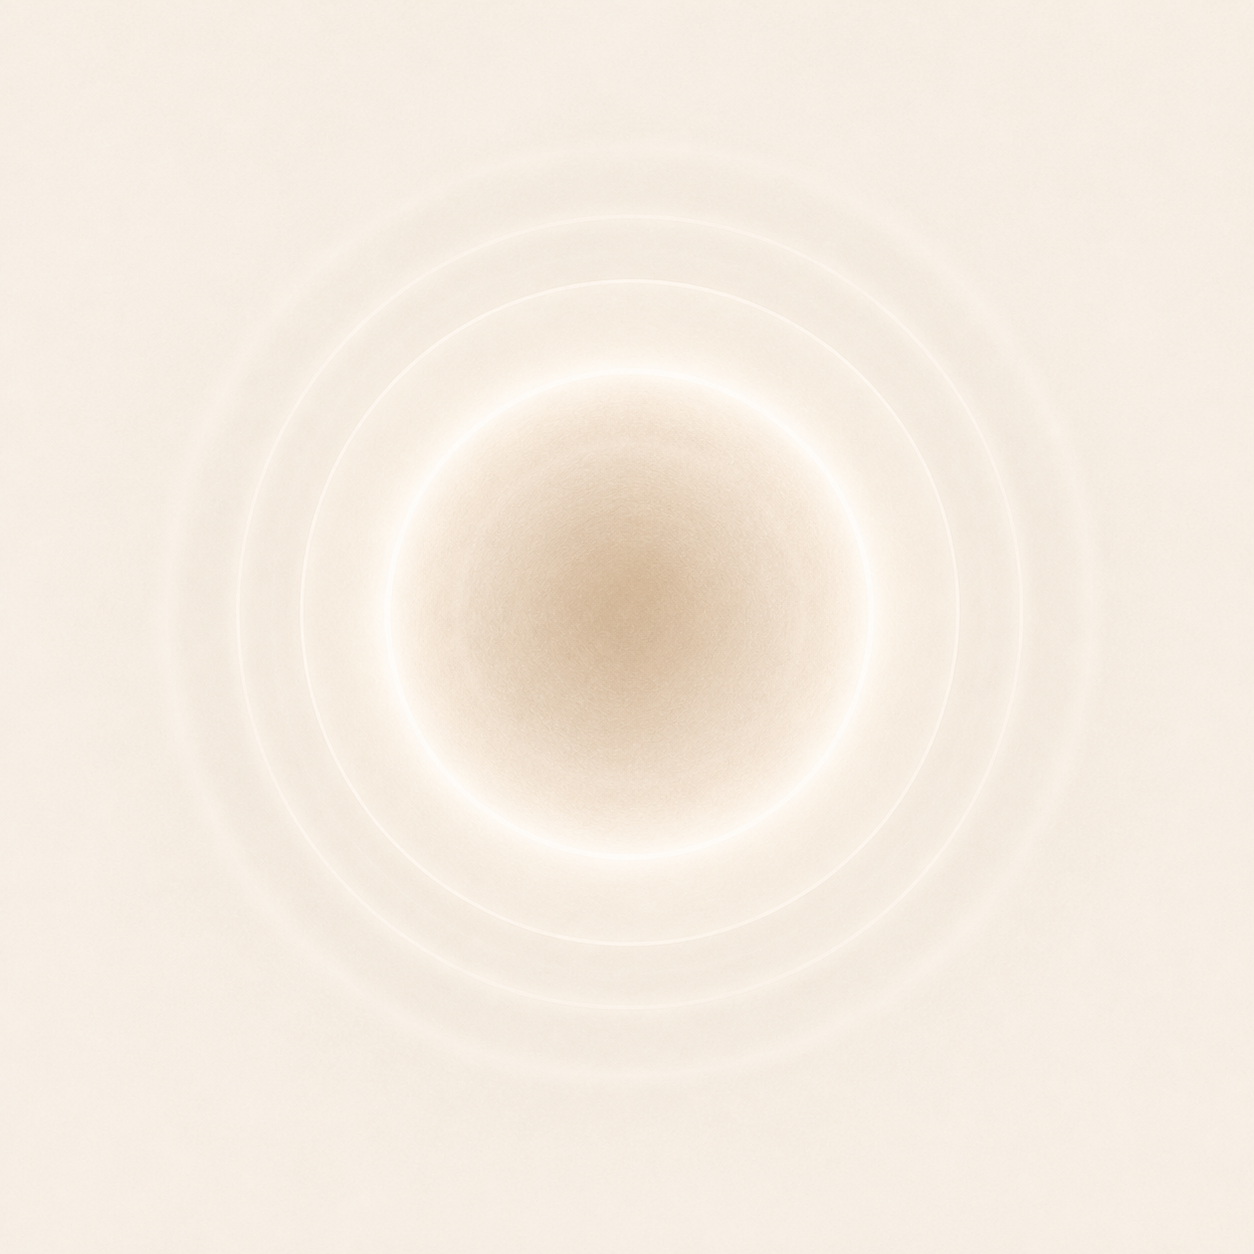
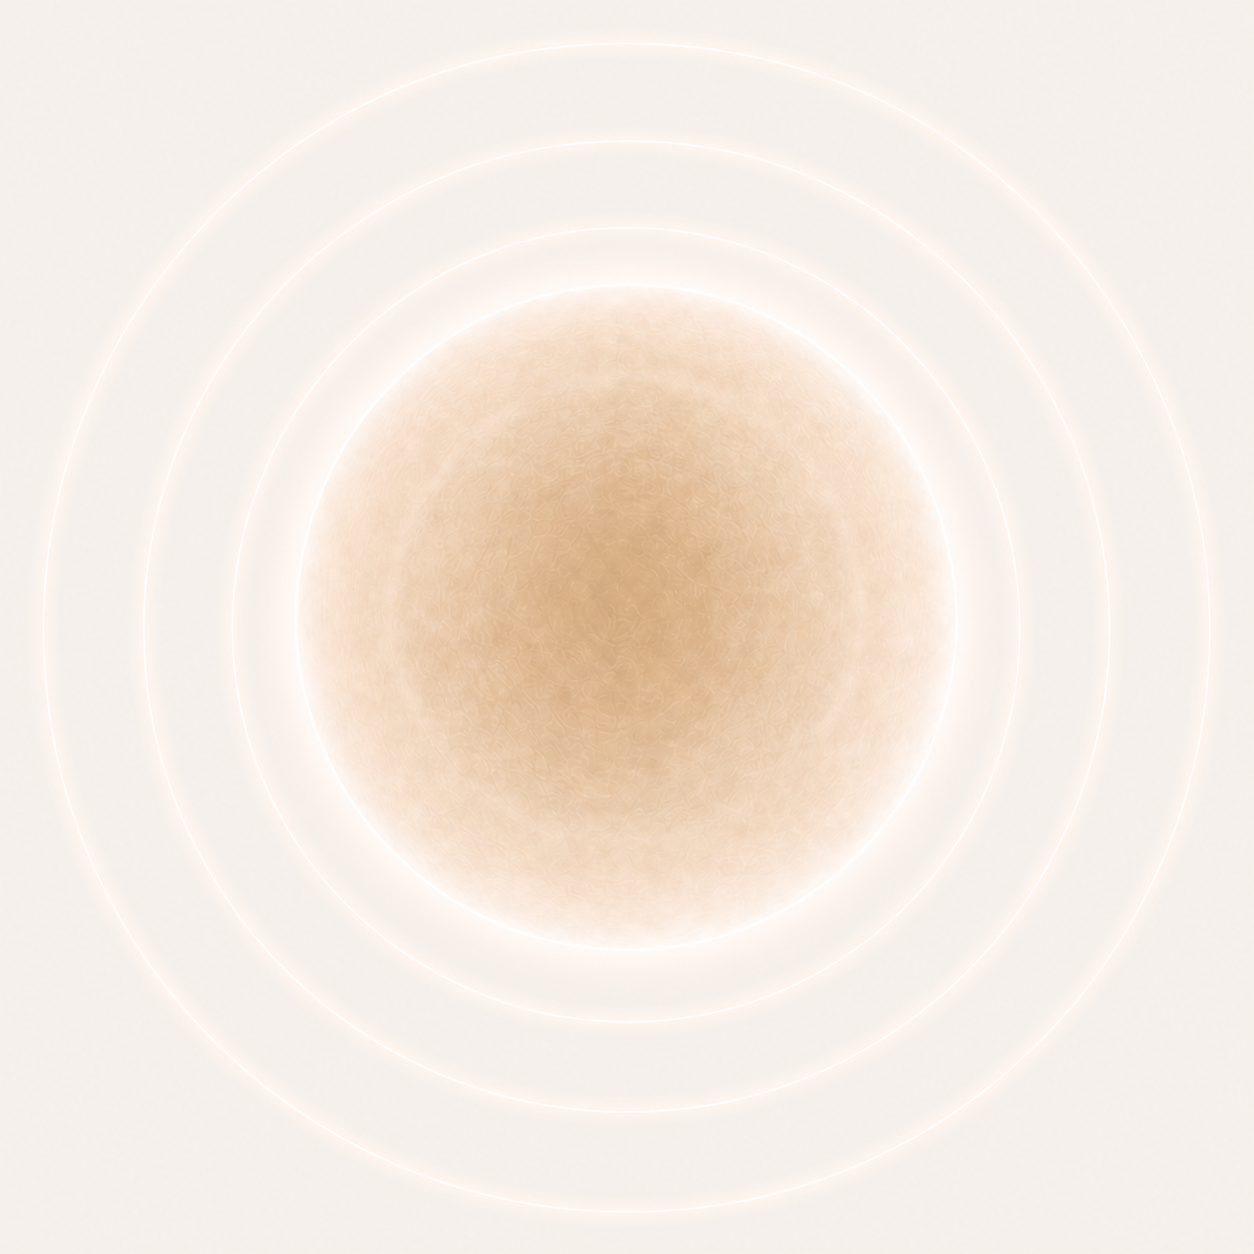
fix(mobile): match product design system

Changed region(s): [[0.2799, 0.2488, 0.7153, 0.7153]]

diff --git a/apps/mobile/src/components/ui/zen/list-row.tsx b/apps/mobile/src/components/ui/zen/list-row.tsx
@@ -14,38 +14,51 @@ import { ZenIcon, type ZenIconName } from "./zen-icon";
 type ZenListRowProps = {
   icon: ZenIconName;
   label: string;
+  detail?: string;
   value?: string;
   onPress?: () => void;
   trailing?: React.ReactNode;
   showChevron?: boolean;
   accessibilityHint?: string;
+  className?: string;
+  iconClassName?: string;
+  iconSize?: number;
 };
 
 export function ZenListRow({
   icon,
   label,
+  detail,
   value,
   onPress,
   trailing,
   showChevron = Boolean(onPress),
   accessibilityHint,
+  className,
+  iconClassName,
+  iconSize = 22,
 }: ZenListRowProps) {
   const colors = useThemeColors();
 
   return (
     <Pressable
       accessibilityRole={onPress ? "button" : undefined}
-      accessibilityLabel={value ? `${label}, ${value}` : label}
+      accessibilityLabel={[label, detail, value].filter(Boolean).join(", ")}
       accessibilityHint={accessibilityHint}
-      className="min-h-16 flex-row items-center gap-4 px-4 py-3"
+      className={`min-h-16 flex-row items-center gap-4 px-4 py-3 ${className ?? ""}`}
       disabled={!onPress}
       onPress={onPress}
     >
-      <View className="size-10 items-center justify-center rounded-full bg-surface-secondary">
-        <ZenIcon name={icon} size={22} tintColor={colors.muted} />
+      <View className={`size-10 items-center justify-center rounded-full bg-surface-secondary ${iconClassName ?? ""}`}>
+        <ZenIcon name={icon} size={iconSize} tintColor={colors.muted} />
       </View>
       <View className="flex-1 gap-0.5">
         <Typography variant="body">{label}</Typography>
+        {detail ? (
+          <Typography variant="small" tone="muted" tabularNums>
+            {detail}
+          </Typography>
+        ) : null}
         {value ? (
           <Typography variant="small" tone="muted" tabularNums>
             {value}
@@ -63,20 +76,28 @@ export function PracticeTimeRow({
   onPress,
   trailing,
   value = formatPracticeTime(time),
+  detail,
+  prominent = false,
 }: {
   time: PracticeTime;
   onPress?: () => void;
   trailing?: React.ReactNode;
   value?: string;
+  detail?: string;
+  prominent?: boolean;
 }) {
   return (
     <ZenListRow
       icon={time.hour < 12 ? "sun" : "moon"}
       label={time.label}
+      detail={detail}
       value={value}
       onPress={onPress}
       trailing={trailing}
       showChevron={Boolean(onPress) && !trailing}
+      className={prominent ? "min-h-32 px-5 py-4" : undefined}
+      iconClassName={prominent ? "size-16" : undefined}
+      iconSize={prominent ? 30 : undefined}
     />
   );
 }

diff --git a/apps/mobile/src/global.css b/apps/mobile/src/global.css
@@ -33,13 +33,13 @@
     --opacity-disabled: 0.48;
 
     /* Zen typography: Geist for interface text, Newsreader for reflective moments. */
-    --font-sans: Geist_400Regular, ui-sans-serif, system-ui, sans-serif;
-    --font-sans-medium: Geist_500Medium, ui-sans-serif, system-ui, sans-serif;
-    --font-sans-semibold: Geist_600SemiBold, ui-sans-serif, system-ui, sans-serif;
-    --font-display: Newsreader_400Regular, ui-serif, Georgia, serif;
-    --font-serif: Newsreader_400Regular, ui-serif, Georgia, serif;
-    --font-serif-medium: Newsreader_500Medium, ui-serif, Georgia, serif;
-    --font-mono: ui-monospace, SFMono-Regular, Menlo, Monaco, Consolas, "Liberation Mono", monospace;
+    --font-sans: Geist_400Regular;
+    --font-sans-medium: Geist_500Medium;
+    --font-sans-semibold: Geist_600SemiBold;
+    --font-display: Newsreader_400Regular;
+    --font-serif: Newsreader_400Regular;
+    --font-serif-medium: Newsreader_500Medium;
+    --font-mono: Menlo;
 }
 
 @layer theme {

diff --git a/apps/mobile/src/components/screens/meditation/breathing-field.tsx b/apps/mobile/src/components/screens/meditation/breathing-field.tsx
@@ -49,7 +49,11 @@ export function BreathingField({ reducedMotion, ending }: BreathingFieldProps) {
   }));
 
   return (
-    <Animated.View style={animatedStyle} accessibilityElementsHidden>
+    <Animated.View
+      className="size-[330px] items-center justify-center overflow-hidden"
+      style={animatedStyle}
+      accessibilityElementsHidden
+    >
       <Image
         source={
           theme === "dark"
@@ -57,7 +61,7 @@ export function BreathingField({ reducedMotion, ending }: BreathingFieldProps) {
             : require("../../../../assets/images/zen-breathing-field.png")
         }
         contentFit="contain"
-        style={{ height: 330, width: 330 }}
+        style={{ height: 350, width: 350 }}
       />
     </Animated.View>
   );

diff --git a/apps/mobile/src/screens/onboarding/welcome-screen.tsx b/apps/mobile/src/screens/onboarding/welcome-screen.tsx
@@ -23,7 +23,7 @@ export function WelcomeScreen() {
 
   return (
     <StandardScrollView contentContainerClassName="min-h-full justify-between gap-8 pb-6 pt-10">
-      <Animated.View entering={reducedMotion ? undefined : FadeIn.duration(450)} className="gap-3 pt-8">
+      <Animated.View entering={reducedMotion ? undefined : FadeIn.duration(450)} className="gap-3 pt-24">
         <Typography accessibilityRole="header" variant="h1">
           Welcome.
         </Typography>
@@ -32,9 +32,9 @@ export function WelcomeScreen() {
         </Typography>
       </Animated.View>
 
-      <LandscapeArtwork height={360} className="-mx-6" />
+      <LandscapeArtwork height={384} className="-mx-6" />
 
-      <View className="gap-7">
+      <View className="-mt-12 -translate-y-8 gap-12">
         <View className="flex-row justify-center gap-2" accessibilityLabel="Onboarding step 1 of 4">
           <View className="size-2 rounded-full bg-accent" />
           <View className="size-2 rounded-full bg-stone" />

diff --git a/apps/mobile/src/screens/today-screen.tsx b/apps/mobile/src/screens/today-screen.tsx
@@ -59,13 +59,15 @@ export function TodayScreen() {
         Today
       </Typography>
       <Typography variant="h1">A quiet rhythm{"\n"}carries you home.</Typography>
-      <LandscapeArtwork height={235} className="-mx-6" />
+      <LandscapeArtwork height={180} className="-mx-6" />
 
       {nextPractice ? (
         <GroupedList>
           <PracticeTimeRow
             time={nextPractice.practiceTime}
+            detail={`${preferences.lastDurationMinutes} min`}
             value={formatScheduledPractice(nextPractice.scheduledAtMs, nowMs)}
+            prominent
             onPress={() => router.push("/session-setup")}
           />
         </GroupedList>
@@ -80,7 +82,7 @@ export function TodayScreen() {
           <Typography variant="small" tone="muted" tabularNums>
             {todaySessions.length === 0
               ? "No sessions yet today"
-              : preferences.sessionsPerDay > 1
+              : preferences.sessionsPerDay > 1 && todaySessions.length <= preferences.sessionsPerDay
                 ? `${todaySessions.length} of ${preferences.sessionsPerDay} sessions today`
                 : `${todaySessions.length} ${todaySessions.length === 1 ? "session" : "sessions"} today`}
           </Typography>

diff --git a/apps/mobile/src/components/ui/zen/zen-button.tsx b/apps/mobile/src/components/ui/zen/zen-button.tsx
@@ -12,7 +12,7 @@ export function ZenPrimaryButton({ children, className, ...props }: ZenButtonPro
       variant="primary"
       feedbackVariant="scale-highlight"
       size="lg"
-      className={`min-h-14 w-full rounded-xl py-3 ${className ?? ""}`}
+      className={`min-h-14 w-full rounded-md py-3 ${className ?? ""}`}
       accessibilityRole="button"
       {...props}
     >
@@ -27,7 +27,7 @@ export function ZenSecondaryButton({ children, className, ...props }: ZenButtonP
       variant="outline"
       feedbackVariant="scale-highlight"
       size="lg"
-      className={`min-h-14 w-full rounded-xl border-border py-3 ${className ?? ""}`}
+      className={`min-h-14 w-full rounded-md border-border py-3 ${className ?? ""}`}
       accessibilityRole="button"
       {...props}
     >

diff --git a/apps/mobile/src/screens/session-complete-screen.tsx b/apps/mobile/src/screens/session-complete-screen.tsx
@@ -70,8 +70,8 @@ export function SessionCompleteScreen() {
   };
 
   return (
-    <StandardScrollView contentContainerClassName="min-h-full justify-between gap-8 pb-6 pt-14">
-      <View className="items-center gap-6">
+    <StandardScrollView contentContainerClassName="grow justify-between gap-8 pb-6 pt-14">
+      <View className="items-center gap-14">
         <View className="size-14 items-center justify-center rounded-full border-2 border-accent">
           <ZenIcon name="check" size={25} tintColor={colors.accent} />
         </View>

diff --git a/apps/mobile/src/components/screens/progress/progress-chart.tsx b/apps/mobile/src/components/screens/progress/progress-chart.tsx
@@ -9,7 +9,7 @@ import type { ProgressBucket, ProgressMode } from "@/domain/progress";
 import { useThemeColors } from "@/hooks/use-theme-colors";
 
 const DEFAULT_PLOT_WIDTH = 276;
-const PLOT_HEIGHT = 164;
+const PLOT_HEIGHT = 212;
 const PLOT_PADDING = 7;
 
 function chartScaleMax(buckets: ProgressBucket[]) {

diff --git a/apps/mobile/src/screens/progress-screen.tsx b/apps/mobile/src/screens/progress-screen.tsx
@@ -50,7 +50,7 @@ export function ProgressScreen() {
           onAction={() => void refresh()}
         />
       ) : (
-        <View className="gap-7">
+        <View className="gap-12">
           <PracticeRhythm buckets={summary.buckets} mode={mode} />
           <ProgressStats sessions={summary.sessions} minutes={summary.minutes} dayRhythm={summary.dayRhythm} />
           {summary.sessions > 0 ? (

diff --git a/apps/mobile/src/components/screens/settings/settings-menu.tsx b/apps/mobile/src/components/screens/settings/settings-menu.tsx
@@ -18,6 +18,7 @@ export function SettingsMenu({ onNavigate }: { onNavigate: (href: (typeof SETTIN
         <ZenListRow
           key={item.label}
           accessibilityHint={`Opens ${item.label.toLowerCase()} settings`}
+          className="min-h-20"
           icon={item.icon}
           label={item.label}
           onPress={() => onNavigate(item.href)}